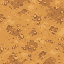
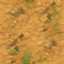
พื้นแมพแบบ bake (tools/bake_sea.py): ทะเลไล่เฉดตื้น-ลึก คลื่น ปะการังใต้น้ำ หาดทราย
- ลายพื้นใหม่ใน art/tiles (water-shallow, water, water-deep, sand, grass, dirt) ตรงกับภาพตัวอย่าง (ต่าง 0.7% ของพิกเซล = โขดหินที่วางในภาพตัวอย่าง)
- npm run bake → client/public/maps/<id>/ground.webp, npm run map bake ต่อให้เอง
- GameScene โหลดพื้นที่ bake แล้ว (ป่ายังเติมต้นไม้ทับ มินิแมพใช้ภาพเดียวกัน) ไม่มีไฟล์ = วาดด้วยโค้ดเหมือนเดิม

diff --git a/client/src/GameScene.ts b/client/src/GameScene.ts
@@ -3,7 +3,7 @@ import type { Net } from "./net";
 import type { EntityState, PlayerStats, ServerMsg } from "../../shared/protocol";
 import type { Cell } from "../../shared/pathfind";
 import { TILE, AUTO_RADIUS, cheb } from "../../shared/constants";
-import { MAP_W, MAP_H, PROPS, FLAT_PROPS, TERRAIN_NAMES, PROP_SETS, EXITS, ARCH_BRIDGES, isWalkable, isSolidProp, PROP_SET_OF, bridgeLift } from "../../shared/map";
+import { MAP_LAYOUT_ID, MAP_W, MAP_H, PROPS, FLAT_PROPS, TERRAIN_NAMES, PROP_SETS, EXITS, ARCH_BRIDGES, isWalkable, isSolidProp, PROP_SET_OF, bridgeLift } from "../../shared/map";
 import { forestTrees, FOREST_KINDS } from "./forest";
 import { renderGround, TILE_URLS } from "./mapRender";
 import { DEFAULT_LOOK, GENDERS, lookKey, type Look } from "../../shared/appearance";
@@ -141,6 +141,8 @@ export class GameScene extends Phaser.Scene {
         for (let i = 0; i < IDLE_FRAMES; i++) this.load.image(`base_${g}_idle_${d}_${i}`, idleFrameUrl(g, d, i));
     // พื้นหญ้า 64×64 ปูซ้ำทั้งแมพ (ขนาดเดิม ไม่ย่อ/ขยาย)
     TILE_URLS.forEach((url, i) => this.load.image(`tile_${TERRAIN_NAMES[i]}`, url));
+    // พื้นที่ bake แล้ว (npm run bake / npm run map) ถ้ามี ใช้แทนพื้นที่วาดด้วยโค้ด ไม่มี = วาดเอง (renderGround)
+    this.load.image("baked_ground", `maps/${MAP_LAYOUT_ID}/ground.webp`);
     // ของประดับในแมพ: props.json (ขนาด, จุดยึด, ความกว้างเงา) + รูปแต่ละชิ้น
     for (const set of Object.keys(PROP_SETS)) this.load.json(`props_${set}`, `sprites/props/${set}/props.json`);
     // สะพานโค้งใช้ภาพสองชั้น (-back/-front) ของที่ยังไม่มีภาพ (ไม่อยู่ในชุดไหน) ข้าม
@@ -1208,7 +1210,12 @@ export class GameScene extends Phaser.Scene {
     // พื้นทั้งแผ่น (ลายพื้น + ขอบโค้ง + ทรายเปียก + ฟองคลื่น + เส้นขอบหญ้า) วาดครั้งเดียว
     const tiles = TERRAIN_NAMES.map((n) => this.textures.get(`tile_${n}`).getSourceImage() as HTMLImageElement);
     const meta0 = Object.assign({}, ...Object.keys(PROP_SETS).map((set) => this.cache.json.get(`props_${set}`) ?? {})) as Record<string, { width: number; height: number; anchor: { x: number; y: number }; shadowWidth: number }>;
-    const ground = renderGround(tiles);
+    let ground: HTMLCanvasElement;
+    if (this.textures.exists("baked_ground")) {
+      ground = document.createElement("canvas");
+      ground.width = MAP_W * TILE; ground.height = MAP_H * TILE;
+      ground.getContext("2d")!.drawImage(this.textures.get("baked_ground").getSourceImage() as HTMLImageElement, 0, 0, ground.width, ground.height);
+    } else ground = renderGround(tiles);
 
     // ป่า: ต้นไม้ด้านในวาดรวมกับพื้น (ประหยัดเครื่อง) ต้นริมป่าเป็น sprite เรียงความลึกตาม y
     const gctx = ground.getContext("2d")!;

diff --git a/shared/map.ts b/shared/map.ts
@@ -14,6 +14,8 @@ import P7 from "../client/public/sprites/props/bridges/props.json";
 const PROP_SIZE: Record<string, { width: number; height: number }> = { ...P1, ...P2, ...P3, ...P4, ...P5, ...P6, ...P7 };
 
 export const TILE_PX = LAYOUT.tile;
+/** id แมพตาม layout (ใช้หาภาพพื้นที่ bake แล้ว client/public/maps/<id>/ground.webp) */
+export const MAP_LAYOUT_ID = LAYOUT.id;
 export const MAP_W = LAYOUT.width;
 export const MAP_H = LAYOUT.height;
 export const SPAWN = { x: Math.floor(LAYOUT.start.x / TILE_PX), y: Math.floor(LAYOUT.start.y / TILE_PX) };

diff --git a/tools/bake_sea.py b/tools/bake_sea.py
@@ -1,0 +1,93 @@
+"""วาดพื้นแมพเป็นภาพเดียว (ทะเลไล่เฉด คลื่น ปะการังใต้น้ำ หาดทราย)
+
+ตัวอย่าง:
+    python tools/bake_sea.py maps/ban-pak-ao.layout.json client/public/maps/ban-pak-ao/ground.png
+
+ใช้ลายพื้นใน art/tiles/ (water-shallow, water, water-deep, sand, grass, dirt)
+ต้องมี Pillow, numpy, scipy
+"""
+import json, numpy as np, random
+from PIL import Image, ImageFilter
+from scipy import ndimage
+random.seed(4); np.random.seed(4)
+import argparse
+ap=argparse.ArgumentParser(description='วาดพื้นแมพทั้งแผ่น: ทะเลไล่เฉดตื้น-ลึก ฟองคลื่น แนวปะการัง หาดทราย')
+ap.add_argument('layout'); ap.add_argument('out'); ap.add_argument('--tiles',default='art/tiles')
+ap.add_argument('--seed',type=int,default=4)
+A=ap.parse_args(); random.seed(A.seed); np.random.seed(A.seed)
+L=json.load(open(A.layout,encoding='utf-8'))
+T=L['tile']; G=L['terrain']; W,H=L['width']*T,L['height']*T
+# หน้ากากน้ำความละเอียดพิกเซล: ขยายตาราง แล้วเบลอ + noise ให้ชายฝั่งโค้งธรรมชาติ
+grid=np.array([[1.0 if c=='W' else 0.0 for c in r] for r in G])
+m=np.array(Image.fromarray((grid*255).astype(np.uint8)).resize((W,H),Image.BICUBIC)).astype(float)/255
+def noise(scale,amp):
+    n=np.random.rand(H//scale+2,W//scale+2)
+    return np.array(Image.fromarray((n*255).astype(np.uint8)).resize((W+scale*2,H+scale*2),Image.BICUBIC)).astype(float)[:H,:W]/255*amp
+m=ndimage.gaussian_filter(m,6)+noise(24,0.35)-0.175
+water=m>0.5
+# ระยะห่างจากฝั่ง (px)
+d=ndimage.distance_transform_edt(water)
+dl=ndimage.distance_transform_edt(~water)      # ระยะจากน้ำ ฝั่งแผ่นดิน
+def tex(name):
+    t=np.array(Image.open(f'{A.tiles}/{name}.png').convert('RGB')).astype(float)
+    return np.tile(t,(H//64+1,W//64+1,1))[:H,:W]
+shallow,mid,deep=tex('water-shallow'),tex('water'),tex('water-deep')
+sand,grass,dirt=tex('sand'),tex('grass'),tex('dirt')
+# ไล่ระดับความลึก: 0-70px ตื้น, 70-220 กลาง, >220 ลึก (มี noise ให้ขอบเฉดเป็นคลื่น)
+dd=d+noise(48,60)-30
+w1=np.clip(1-(dd-20)/80,0,1)            # ตื้น
+w3=np.clip((dd-170)/140,0,1)            # ลึก
+w2=np.clip(1-w1-w3,0,1)
+sea=shallow*w1[...,None]+mid*w2[...,None]+deep*w3[...,None]
+# ปรับสีตามความลึกให้ไล่นุ่มขึ้น (ตื้นสว่างอมเขียว, ลึกเข้ม)
+tint=np.stack([np.interp(dd,[0,60,200,420],[90,30,10,5]),np.interp(dd,[0,60,200,420],[230,180,110,70]),np.interp(dd,[0,60,200,420],[220,220,190,150])],-1)
+sea=sea*0.6+tint*0.4
+# แนวปะการัง/โขดหินใต้น้ำ: หย่อมมืดในเขตน้ำตื้น-กลาง
+reef=np.zeros((H,W))
+for _ in range(90):
+    cx,cy=random.randint(0,W-1),random.randint(0,H-1)
+    if not water[cy,cx] or not (40<d[cy,cx]<260): continue
+    r=random.randint(18,55); yy,xx=np.ogrid[:H,:W]
+    reef+=np.exp(-(((xx-cx)/r)**2+((yy-cy)/(r*0.7))**2))
+reef=np.clip(reef*(0.6+noise(8,0.8)),0,1)*(water)
+coral_col=np.array([35,85,80]); sea=sea*(1-0.55*reef[...,None])+coral_col*0.55*reef[...,None]
+# ขอบบนของก้อนหินใต้น้ำสว่างขึ้นนิดหน่อย ให้มีมิติ
+hl=np.clip(reef-np.roll(reef,4,0),0,1); sea=sea+hl[...,None]*np.array([60,90,80])*0.8
+# กอปะการังใต้น้ำ: ก้อนสีนุ่ม ๆ ถูกน้ำกลืนสี (เบลอ + จางตามความลึก)
+cor=np.zeros((H,W,3)); ca=np.zeros((H,W))
+cand=np.argwhere((reef>0.45)&(d<200))
+for i in np.random.choice(len(cand),min(70,len(cand)),replace=False):
+    y,x=cand[i]; col=np.array(random.choice([(235,110,140),(245,150,90),(180,120,220),(250,200,110)]))
+    for _ in range(random.randint(3,6)):
+        cx=x+random.randint(-10,10); cy=y+random.randint(-6,6); r=random.randint(3,6)
+        y0,y1,x0,x1=max(0,cy-r),min(H,cy+r),max(0,cx-r),min(W,cx+r)
+        yy_,xx_=np.ogrid[y0:y1,x0:x1]; k=np.clip(1-(((xx_-cx)/r)**2+((yy_-cy)/r)**2),0,1)
+        cor[y0:y1,x0:x1]=np.where(k[...,None]>ca[y0:y1,x0:x1,None],col,cor[y0:y1,x0:x1]); ca[y0:y1,x0:x1]=np.maximum(ca[y0:y1,x0:x1],k)
+ca=ndimage.gaussian_filter(ca,1.2)*np.clip(1-d/260,0.25,1)*0.75
+sea=sea*(1-ca[...,None])+cor*ca[...,None]
+# แสงระยิบในน้ำตื้น (caustics) — เพิ่มความสว่างตามลายน้ำเดิม
+# คลื่น: ฟองขาวที่ชายฝั่ง + เส้นคลื่นขนานฝั่ง
+foam=np.clip(1-d/13,0,1)*(0.55+noise(5,0.8))+np.clip(1-abs(d-15)/3,0,1)*(noise(7,1)>0.5)*0.6
+bands=np.zeros((H,W))
+for k,(dist,wid,a) in enumerate([(22,4,0.55),(46,3,0.35),(78,3,0.2)]):
+    wave=np.exp(-((d-(dist+noise(40,14)-7))/wid)**2)
+    broken=noise(10,1.0)>0.45
+    bands+=wave*a*broken
+white=np.clip(foam+bands,0,1)*water
+sea=sea*(1-white[...,None])+255*white[...,None]
+# แผ่นดิน: ทรายเปียกใกล้น้ำ, ทราย, หญ้า, ทางดิน (ตามผัง)
+lg=np.array([[c for c in r] for r in G])
+big=lambda ch:np.array(Image.fromarray(((lg==ch)*255).astype(np.uint8)).resize((W,H),Image.NEAREST))>0
+landimg=grass.copy()
+for ch,t in (('S',sand),('D',dirt)):
+    mk=ndimage.gaussian_filter(big(ch).astype(float),3)
+    landimg=landimg*(1-mk[...,None])+t*mk[...,None]
+paddy=big('P'); landimg[paddy]=landimg[paddy]*0.5+np.array([120,185,70])*0.5
+forest=big('F'); landimg[forest]=landimg[forest]*0.55+np.array([30,90,35])*0.45
+yy=np.arange(H)[:,None]*np.ones((1,W))
+beach=(dl<34+noise(20,24))&(~water)&(yy>H*0.55)
+bm=ndimage.gaussian_filter(beach.astype(float),4)
+landimg=landimg*(1-bm[...,None])+sand*bm[...,None]
+wet=np.clip(1-dl/14,0,1)*(~water); landimg=landimg*(1-0.35*wet[...,None])+np.array([150,120,70])*0.35*wet[...,None]
+out=np.where(water[...,None],sea,landimg)
+img=Image.fromarray(np.clip(out,0,255).astype(np.uint8)); img.save(A.out); print('บันทึก',A.out,img.size)

diff --git a/tools/bake_maps.py b/tools/bake_maps.py
@@ -1,0 +1,36 @@
+"""วาดพื้นทุกแมพเป็นภาพเดียวด้วย tools/bake_sea.py → client/public/maps/<id>/ground.webp (เกมโหลดแทนพื้นที่วาดด้วยโค้ด)
+
+    npm run bake                      ทุกแมพใน shared/data/maps/
+    python tools/bake_maps.py ban-pak-ao
+
+ลายพื้นจาก art/tiles/ (water-shallow, water, water-deep, sand, grass, dirt) · ต้องมี Pillow, numpy, scipy
+"""
+import subprocess, sys, tempfile
+from pathlib import Path
+from PIL import Image
+
+ROOT = Path(__file__).resolve().parent.parent
+
+
+def bake(map_id: str):
+    src = ROOT / "shared/data/maps" / f"{map_id}.json"
+    out = ROOT / "client/public/maps" / map_id / "ground.webp"
+    out.parent.mkdir(parents=True, exist_ok=True)
+    with tempfile.TemporaryDirectory() as tmp:
+        png = Path(tmp) / "ground.png"
+        subprocess.run([sys.executable, str(ROOT / "tools/bake_sea.py"), str(src), str(png), "--tiles", str(ROOT / "art/tiles")],
+                       check=True, capture_output=True)
+        Image.open(png).convert("RGB").save(out, quality=90, method=6)
+    print(f"  พื้น: {out.relative_to(ROOT)}")
+
+
+def main():
+    sys.stdout.reconfigure(encoding="utf-8")
+    ids = sys.argv[1:] or sorted(p.stem for p in (ROOT / "shared/data/maps").glob("*.json"))
+    for i in ids:
+        print(f"{i}:")
+        bake(i)
+
+
+if __name__ == "__main__":
+    main()

diff --git a/tools/build_map.py b/tools/build_map.py
@@ -203,6 +203,9 @@ def main():
         out = ROOT / "shared/data/maps" / f"{data['id']}.json"
         out.write_text(json.dumps(data, ensure_ascii=False, indent=1), encoding="utf-8")
         print(f"  เขียน {out.relative_to(ROOT)} ({data['width']}×{data['height']} ช่องเดิน, ของประดับ {len(data['props'])} ชิ้น)")
+        # วาดพื้นเป็นภาพเดียว (ทะเลไล่เฉด คลื่น ปะการัง หาดทราย) ให้เกมโหลดแทนพื้นที่วาดด้วยโค้ด
+        from bake_maps import bake
+        bake(data["id"])
     if failed:
         sys.exit(1)
 

diff --git a/CLAUDE.md b/CLAUDE.md
@@ -69,6 +69,7 @@ npm run typecheck       # tsc ทั้ง client และ server
   - `python tools/tiled_setup.py` สร้าง tileset ใหม่ (terrain/block/props — ของที่ยังไม่มีภาพเป็นกล่องชมพู) รันใหม่เมื่อเพิ่มภาพ props; ไม่เขียนทับ .tmj ที่มีอยู่
   - `npm run map` แปลง `maps/*.tmj` → `shared/data/maps/<id>.json` ตรวจแล้วแจ้งภาษาไทย แมพที่ผิด (เช่นจุดเกิดบนน้ำ) ไม่เขียนทับไฟล์ที่เกมใช้
   - พื้นหลายเลเยอร์ได้: Tile layer ที่ชื่อขึ้นต้นด้วย `ground` (เช่น ground-1-deep … ground-4-land, อยู่ในกลุ่มก็ได้) ชั้นบนทับชั้นล่าง ช่องว่างใช้ชั้นล่าง ชนิดพื้น = property `terrain` ของ tile บนสุด (ตั้งทีละ tile หรือทั้ง tileset) · `shore-tiles-64.png` (วางที่ art/tiles/) → `shore.tsx` ทุก tile terrain = water
+  - พื้นในเกม = ภาพที่ bake แล้ว `client/public/maps/<id>/ground.webp` (`tools/bake_sea.py` ทะเลไล่เฉด คลื่น ปะการัง หาดทราย ลายจาก `art/tiles/`) `npm run map` bake ให้เอง / `npm run bake` bake ใหม่ทุกแมพ · ไม่มีภาพ = วาดด้วยโค้ด (mapRender.ts)
   - props.tsx property: `solid` ขวางทาง, `deck` พื้นไม้เดินได้บนน้ำ (หักขอบ 8 px), `arch` สะพานโค้ง · เกมโหลดแค่ ban-pak-ao (ยังไม่มีระบบข้ามแมพ)
 - `client/src/mapRender.ts` วาดพื้นทั้งแผ่นเป็นภาพเดียวตอนเข้าเกม: ลายพื้น 64×64 ปูซ้ำตามพิกัดโลก, ขอบโค้งด้วย noise (`WARP`), ทรายเปียกริมน้ำ, ฟองคลื่น, เส้นขอบหญ้า 1px
 - `client/public/sprites/base-male/`, `base-female/` ภาพ base 8 ทิศ (ผมดำ)
